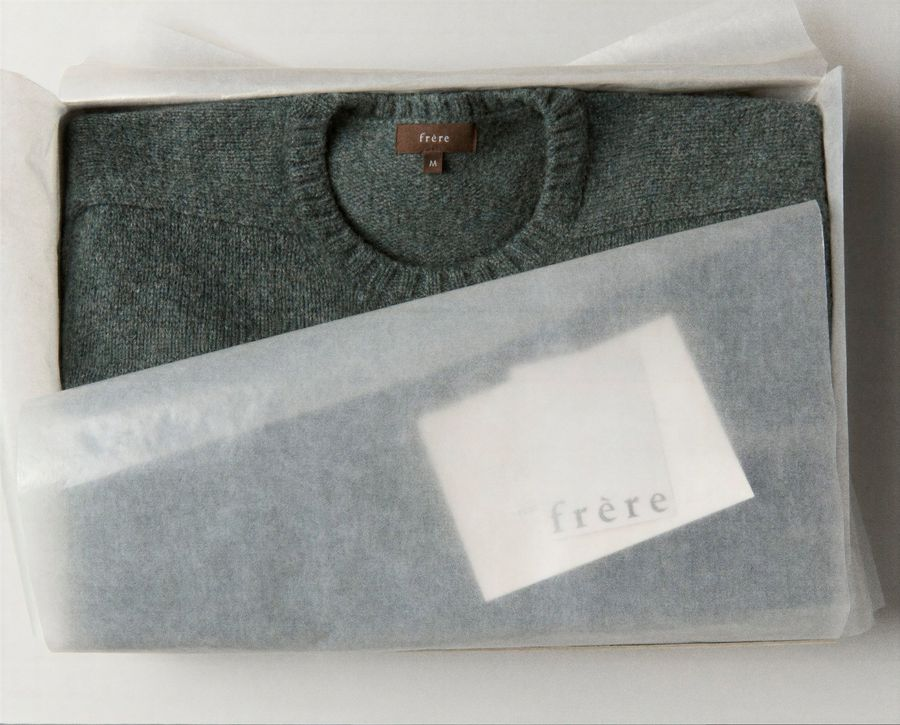
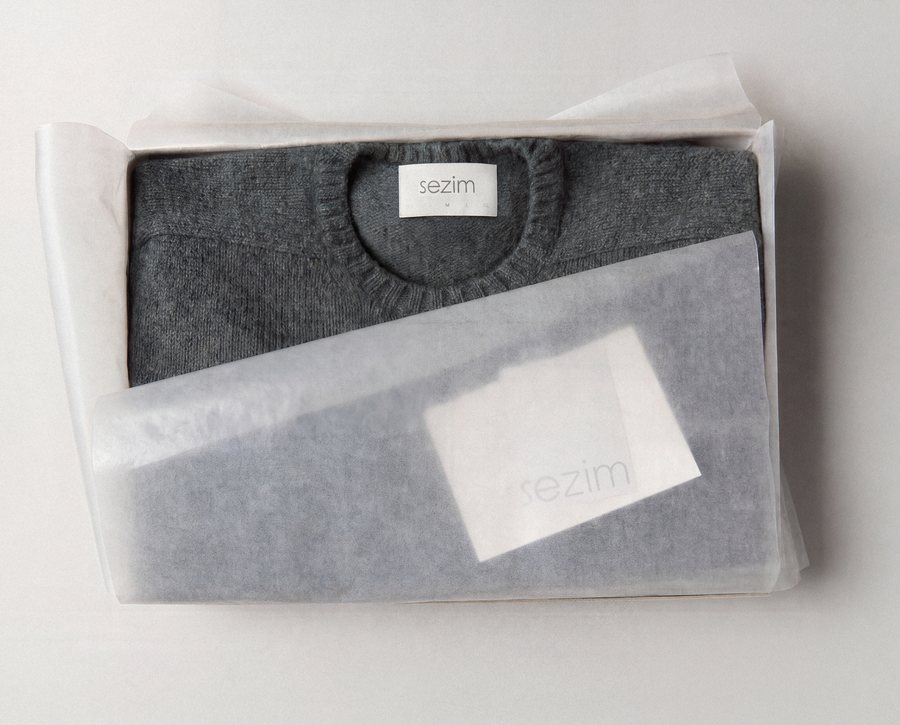
Sezim: own box and shopping bag frames (replace frère and YUDASHKIN)
Claude-Session: https://claude.ai/code/session_01GGQjxjoJKcpwRjderqpNyi

diff --git a/projects.js b/projects.js
@@ -71,7 +71,7 @@ const SEZIM_CASE = {
   more: {"en":["Sezim means “feeling” in Kazakh. The brand makes clean, minimal clothes without prints that become an emotional gift — each piece carries a message for a loved one on its inner side, words that are hard to say out loud.","The identity is as quiet as the clothes: a thin-line S in a circle, a light wordmark, warm whites and soft greys, and photography about closeness — hands, hugs, family. Everyday things become important and special."],"ru":["Sezim по-казахски — «чувство». Бренд делает чистые минималистичные вещи без принтов, которые становятся эмоциональным подарком: на внутренней стороне каждой — послание близкому человеку, слова, которые сложно сказать вслух.","Айдентика такая же тихая, как одежда: тонкая S в круге, лёгкий логотип, тёплые белые и мягкие серые, фотографии о близости — руки, объятия, семья. Вещи для обычной жизни становятся важными и особенными."],"kk":["Sezim — «сезім». Бренд баспасыз, таза минималистік киім жасайды, ол эмоциялық сыйлыққа айналады: әр заттың ішкі жағында жақын адамға арналған жолдау бар — дауыстап айту қиын сөздер.","Айдентика киімнің өзі сияқты тыныш: шеңбердегі жіңішке S, жеңіл логотип, жылы ақ және жұмсақ сұр түстер, жақындық туралы фотосуреттер — қолдар, құшақ, отбасы. Күнделікті заттар маңызды әрі ерекше болады."]},
   goal: {"en":["Build a brand about relationships, where clothing is a gift with an important message for someone close.","Create a calm system — sign, wordmark, colour and photography — for labels, packaging, retail and outdoor."],"ru":["Создать бренд о взаимоотношениях, где одежда — подарок с важным сообщением близкому человеку.","Собрать спокойную систему — знак, логотип, цвет и фотостиль — для бирок, упаковки, ритейла и наружной рекламы."],"kk":["Киім жақын адамға маңызды жолдауы бар сыйлық болатын қарым-қатынас туралы бренд жасау.","Жапсырмаларға, қаптамаға, ритейлге және сыртқы жарнамаға арналған сабырлы жүйе құру — белгі, логотип, түс және фотостиль."]},
   info: {"en":"Brand platform and identity: sign and wordmark, “kózge kórinbeitin” descriptor, colour palette, typography, woven labels, hang tags, gift boxes, shopping bags, envelopes and stickers, business cards, posters, outdoor and social media.","ru":"Бренд-платформа и айдентика: знак и логотип, дескриптор «kózge kórinbeitin», палитра, шрифты, тканые лейблы, навесные бирки, подарочные коробки, пакеты, конверты и наклейки, визитки, постеры, наружная реклама и соцсети.","kk":"Бренд-платформа және айдентика: белгі мен логотип, «kózge kórinbeitin» дескрипторы, палитра, қаріптер, тоқылған жапсырмалар, ілме биркалар, сыйлық қораптары, пакеттер, конверттер мен жапсырмалар, визиткалар, постерлер, сыртқы жарнама және әлеуметтік желілер."},
-  rows: [{"eq": [["img/sezim2/z01.jpg", 1396, 1962], ["img/sezim2/z02.mp4", 1396, 1048]]}, [["img/sezim2/z03b.jpg", 2808, 1746]], [["img/sezim2/z04.jpg", 2808, 1552]], {"eq": [["img/sezim2/z05.jpg", 1842, 2280], ["img/sezim2/z06.jpg", 950, 1154]], "fr": [921, 475]}, "statement", {"eq": [["img/sezim2/z07.svg", 2768, 3460], ["img/sezim2/z08.jpg", 2800, 1871]], "fr": [267, 1129]}, {"eq": [null, ["img/sezim2/z09.jpg", 840, 1206], "goal"], "fr": [278, 420, 706]}, {"eq": [["img/sezim2/z10.jpg", 1396, 1746], ["img/sezim2/z11.jpg", 1396, 1746]]}, {"eq": [["img/sezim2/z12.jpg", 1962, 1580], ["img/sezim2/z13.jpg", 830, 870]], "fr": [981, 415]}, [["img/sezim2/z14.jpg", 2808, 1646]], {"eq": [["img/sezim2/z15.jpg", 1396, 1746], ["img/sezim2/z16.jpg", 1396, 1746]]}, [["img/sezim2/z17.jpg", 2808, 1228]], {"eq": [["img/sezim2/z18.jpg", 1842, 2280], ["img/sezim2/z19.jpg", 950, 1154]], "fr": [921, 475]}, {"eq": [["img/sezim2/z20.jpg", 776, 416], ["img/sezim2/z21.jpg", 1048, 1052], ["img/sezim2/z22.jpg", 952, 1502]], "fr": [388, 524, 476]}, {"eq": [["img/sezim2/z23.jpg", 1846, 1862], ["img/sezim2/z24.jpg", 946, 966]], "fr": [923, 473]}],
+  rows: [{"eq": [["img/sezim2/z01.jpg", 1396, 1962], ["img/sezim2/z02.mp4", 1396, 1048]]}, [["img/sezim2/z03b.jpg", 2808, 1746]], [["img/sezim2/z04.jpg", 2808, 1552]], {"eq": [["img/sezim2/z05.jpg", 1842, 2280], ["img/sezim2/z06.jpg", 950, 1154]], "fr": [921, 475]}, "statement", {"eq": [["img/sezim2/z07.svg", 2768, 3460], ["img/sezim2/z08.jpg", 2800, 1871]], "fr": [267, 1129]}, {"eq": [null, ["img/sezim2/z09.jpg", 840, 1206], "goal"], "fr": [278, 420, 706]}, {"eq": [["img/sezim2/z10.jpg", 1396, 1746], ["img/sezim2/z11.jpg", 1396, 1746]]}, {"eq": [["img/sezim2/z12.jpg", 2400, 1933], ["img/sezim2/z13.jpg", 1800, 1887]], "fr": [981, 415]}, [["img/sezim2/z14.jpg", 2808, 1646]], {"eq": [["img/sezim2/z15.jpg", 1396, 1746], ["img/sezim2/z16.jpg", 1396, 1746]]}, [["img/sezim2/z17.jpg", 2808, 1228]], {"eq": [["img/sezim2/z18.jpg", 1842, 2280], ["img/sezim2/z19.jpg", 950, 1154]], "fr": [921, 475]}, {"eq": [["img/sezim2/z20.jpg", 776, 416], ["img/sezim2/z21.jpg", 1048, 1052], ["img/sezim2/z22.jpg", 952, 1502]], "fr": [388, 524, 476]}, {"eq": [["img/sezim2/z23.jpg", 1846, 1862], ["img/sezim2/z24.jpg", 946, 966]], "fr": [923, 473]}],
   carousel: [],
 };
 

diff --git a/case.html b/case.html
@@ -16,7 +16,7 @@
 <link rel="apple-touch-icon" href="img/apple-touch-icon2.png">
 <link rel="preconnect" href="https://fonts.googleapis.com">
 <link rel="stylesheet" href="https://fonts.googleapis.com/css2?family=Tinos&display=swap">
-<link rel="stylesheet" href="site.css?v=1793815662">
+<link rel="stylesheet" href="site.css?v=1793815710">
 <style>
 /* Страница проекта: начало и карусель — из варианта «История» (по мотивам mouthwash.studio),
    мелкие кадры, мелкий текст, навигация и низ — из варианта «Галерея» (по макету OI.LAB.pdf / gaadesign.studio).
@@ -197,8 +197,8 @@ dialog.card::backdrop{background:rgba(0,0,0,.1);-webkit-backdrop-filter:blur(10p
 <div class="big" id="big" role="img" aria-label="Oilab"></div>
 
 <script src="https://cdnjs.cloudflare.com/ajax/libs/lottie-web/5.12.2/lottie_light.min.js"></script>
-<script src="i18n.js?v=1793815662" charset="utf-8"></script>
-<script src="projects.js?v=1793815662" charset="utf-8"></script>
+<script src="i18n.js?v=1793815710" charset="utf-8"></script>
+<script src="projects.js?v=1793815710" charset="utf-8"></script>
 <script>
 // Раскладка: размеры ячеек в пикселях макета при экране 1500px. Фото проекта (case.images) встают по порядку,
 // первая ячейка — обложка с главной; пустые ячейки показывают нужный размер фото.

diff --git a/gallery.html b/gallery.html
@@ -16,7 +16,7 @@
 <link rel="apple-touch-icon" href="img/apple-touch-icon2.png">
 <link rel="preconnect" href="https://fonts.googleapis.com">
 <link rel="stylesheet" href="https://fonts.googleapis.com/css2?family=Tinos&display=swap">
-<link rel="stylesheet" href="site.css?v=1793815662">
+<link rel="stylesheet" href="site.css?v=1793815710">
 <style>
 /* Gallery по макету Frame 20: свободная раскладка крупных кадров (позиции и размеры — из макета, в долях ширины 1390px),
    подписи «проект / услуги», внизу лента всех проектов */
@@ -67,8 +67,8 @@
 <div class="big" id="big" role="img" aria-label="Oilab"></div>
 
 <script src="https://cdnjs.cloudflare.com/ajax/libs/lottie-web/5.12.2/lottie_light.min.js"></script>
-<script src="i18n.js?v=1793815662" charset="utf-8"></script>
-<script src="projects.js?v=1793815662" charset="utf-8"></script>
+<script src="i18n.js?v=1793815710" charset="utf-8"></script>
+<script src="projects.js?v=1793815710" charset="utf-8"></script>
 <script>
 // Галерея собирается заново при каждом открытии: случайные кадры упакованных проектов
 // раскладываются по шаблонам рядов из макета Frame 20 (позиции и ширины — в пикселях макета шириной 1390).

diff --git a/about.html b/about.html
@@ -16,7 +16,7 @@
 <link rel="apple-touch-icon" href="img/apple-touch-icon2.png">
 <link rel="preconnect" href="https://fonts.googleapis.com">
 <link rel="stylesheet" href="https://fonts.googleapis.com/css2?family=Tinos&display=swap">
-<link rel="stylesheet" href="site.css?v=1793815662">
+<link rel="stylesheet" href="site.css?v=1793815710">
 <style>
 /* About по структуре gaadesign.studio/info/about: студия → основатель → принципы (раскрываются) → услуги → клиенты → признание → контакт.
    Сетка сайта: подпись раздела в первой колонке из 4, содержание — в колонках 2–4 */
@@ -108,8 +108,8 @@
 <div class="big" id="big" role="img" aria-label="Oilab"></div>
 
 <script src="https://cdnjs.cloudflare.com/ajax/libs/lottie-web/5.12.2/lottie_light.min.js"></script>
-<script src="i18n.js?v=1793815662" charset="utf-8"></script>
-<script src="projects.js?v=1793815662" charset="utf-8"></script>
+<script src="i18n.js?v=1793815710" charset="utf-8"></script>
+<script src="projects.js?v=1793815710" charset="utf-8"></script>
 <script>
 // Тексты страницы — в i18n.js (ключи a.*)
 

diff --git a/index.html b/index.html
@@ -17,7 +17,7 @@
 <link rel="apple-touch-icon" href="img/apple-touch-icon2.png">
 <link rel="preconnect" href="https://fonts.googleapis.com">
 <link rel="stylesheet" href="https://fonts.googleapis.com/css2?family=Tinos&display=swap">
-<link rel="stylesheet" href="site.css?v=1793815662">
+<link rel="stylesheet" href="site.css?v=1793815710">
 <style>
 /* Главная: манифест и сетка проектов. Общие токены, шапка и футер — в site.css */
 
@@ -123,8 +123,8 @@
 <div class="big" id="big" role="img" aria-label="Oilab"></div>
 
 <script src="https://cdnjs.cloudflare.com/ajax/libs/lottie-web/5.12.2/lottie_light.min.js"></script>
-<script src="i18n.js?v=1793815662" charset="utf-8"></script>
-<script src="projects.js?v=1793815662" charset="utf-8"></script>
+<script src="i18n.js?v=1793815710" charset="utf-8"></script>
+<script src="projects.js?v=1793815710" charset="utf-8"></script>
 <script>
 // hover: вторая фотография проекта (или .mp4) — плавно сменяет обложку при наведении. Пример: {name:"Кайрат", img:"p01", hover:"img/p01-2.jpg", tags:[...]}
 const grid = document.getElementById('grid');
